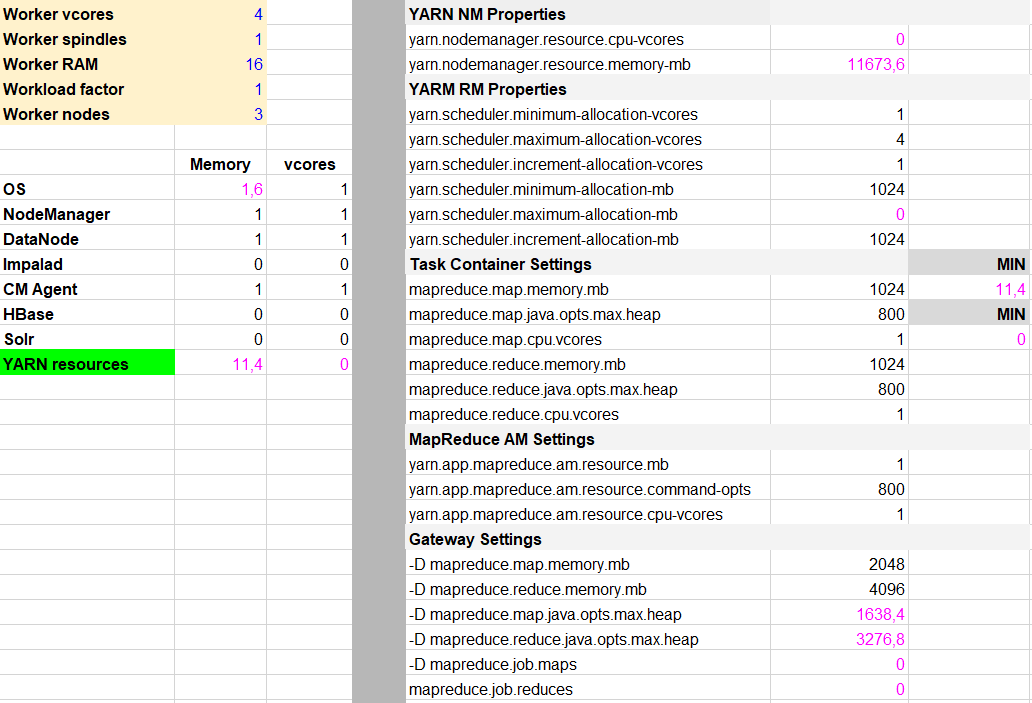
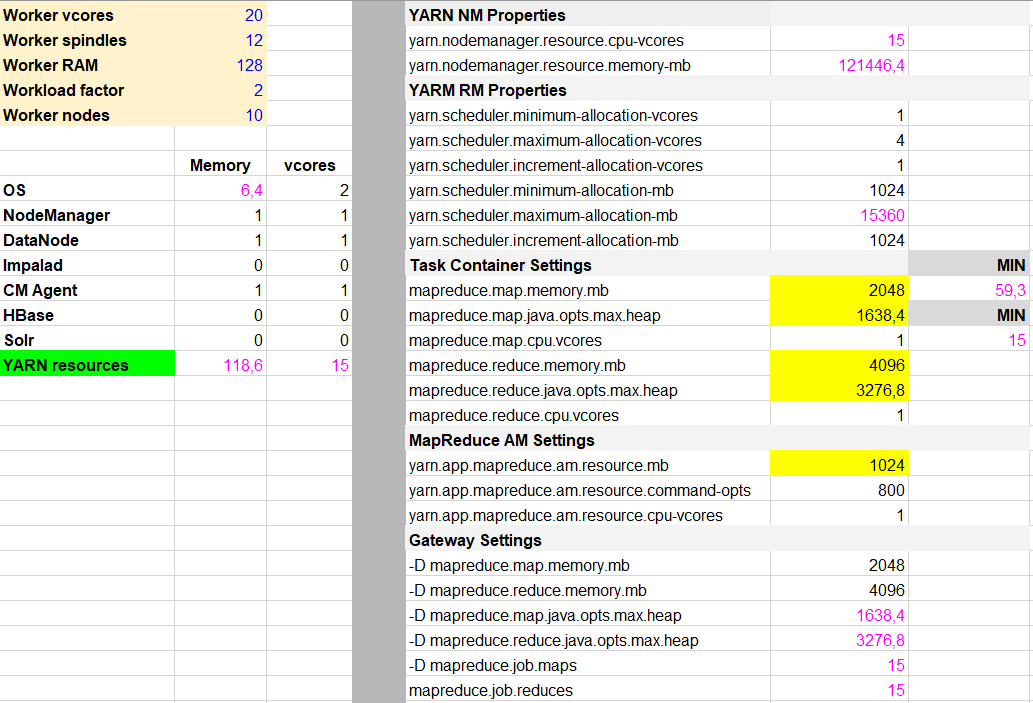
Fixed Yarn cals

diff --git a/resources/labs/0_YarnCalcs.md b/resources/labs/0_YarnCalcs.md
@@ -2,24 +2,19 @@
 
 ## Spreadsheet Adjustment
 
-My cluster hardware is very limited:
-- 5 nodes
-- 4 vCores per node
+Cluster Specifications
+- Worker nodes: 10
+- Worker vcores: 20
+- Worker spindles: 12
+- Worker RAM: 128 GB
 - 16GiB RAM per node
 
 Changes made to the spreadsheet:
-
-- `1` vCore for the OS (was `2`): lowered because of cluster size
-- `yarn.scheduler.maximum-allocation-vcores` set to `1` (was `4`): lowered because of cluster size, to allow more containers to be allocated and also because there is only one disk.
-
-
-**Notes:**
-
-Since I only have 4 vcores, counting with OS, NodeManager, Datanode and CM Agent, I already have all 4 vcores allocated. This configuration has a clear overcommit of vcores, so the spreadsheet shows 0 vcores available for containers. Since the `yarn.scheduler.maximum-allocation-mb` is equal to `yarn.nodemanager.resource.cpu-vcores * 1024` (being `1024` the minimum recommended memory in bytes for a container), the spreadsheet shows `0` as the value for `yarn.scheduler.maximum-allocation-mb`.
-
+- Changed memory reserved for the OS to 5% of total RAM. Since we have 128GB of RAM, 6.4GB for the OS seems enough.
+- Application Master memory changed to 1GB
+- Changed `mapreduce.map.memory.mb` to 2GB and `mapreduce.map.java.opts.max.heap` to 80% of that value (80% is the current best practice).
+- Changed `mapreduce.reduce.memory.mb` to 4GB and `mapreduce.reduce.java.opts.max.heap` to 80% of that value (80% it is the current best practice).
 
 ## Step 2
 
-The workload factor should be affected by the kind of workload expected for the cluster and the ration of vcores to spindles. Value `1` means the cluster is CPU bound and `4` means it is more I/O bound.
-
-Testing the values in the spreadsheet for an "example cluster" with much higher hardware specifications, we can see that the ration between vcores and spindles affects the number of maps/reduces.
+The workload factor should be affected by the kind of workload expected for the cluster and the ration of vcores to spindles. Value `1` usually means the nodes are CPU bound and `4` means they are I/O bound.
